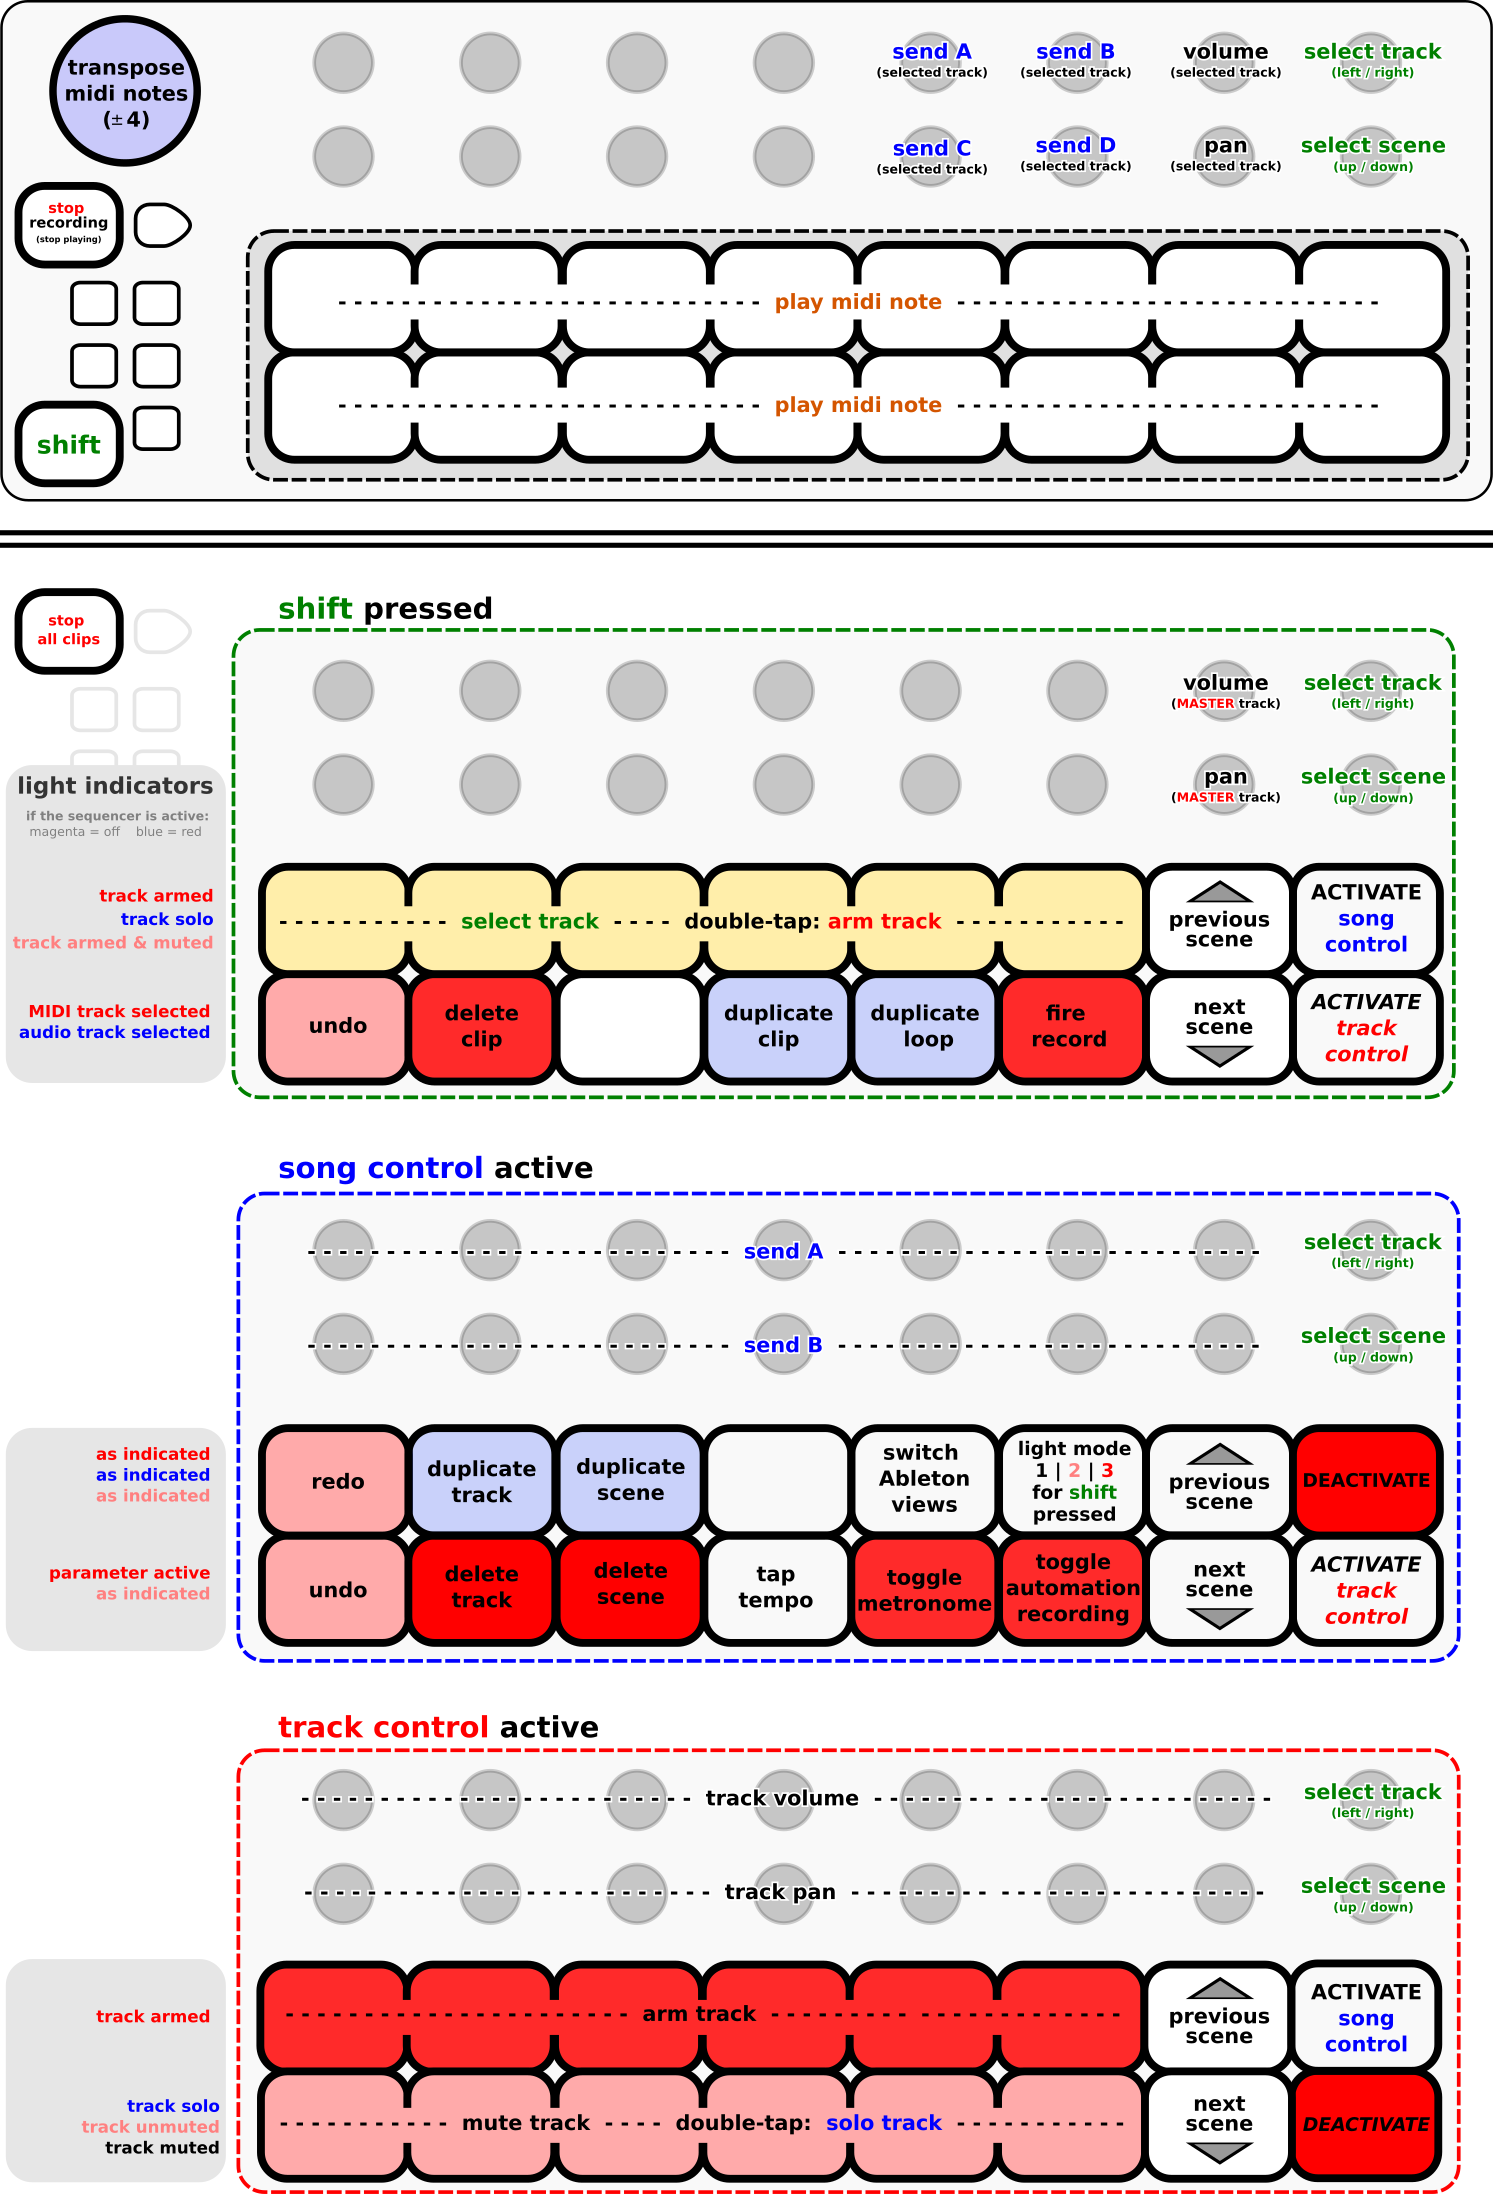
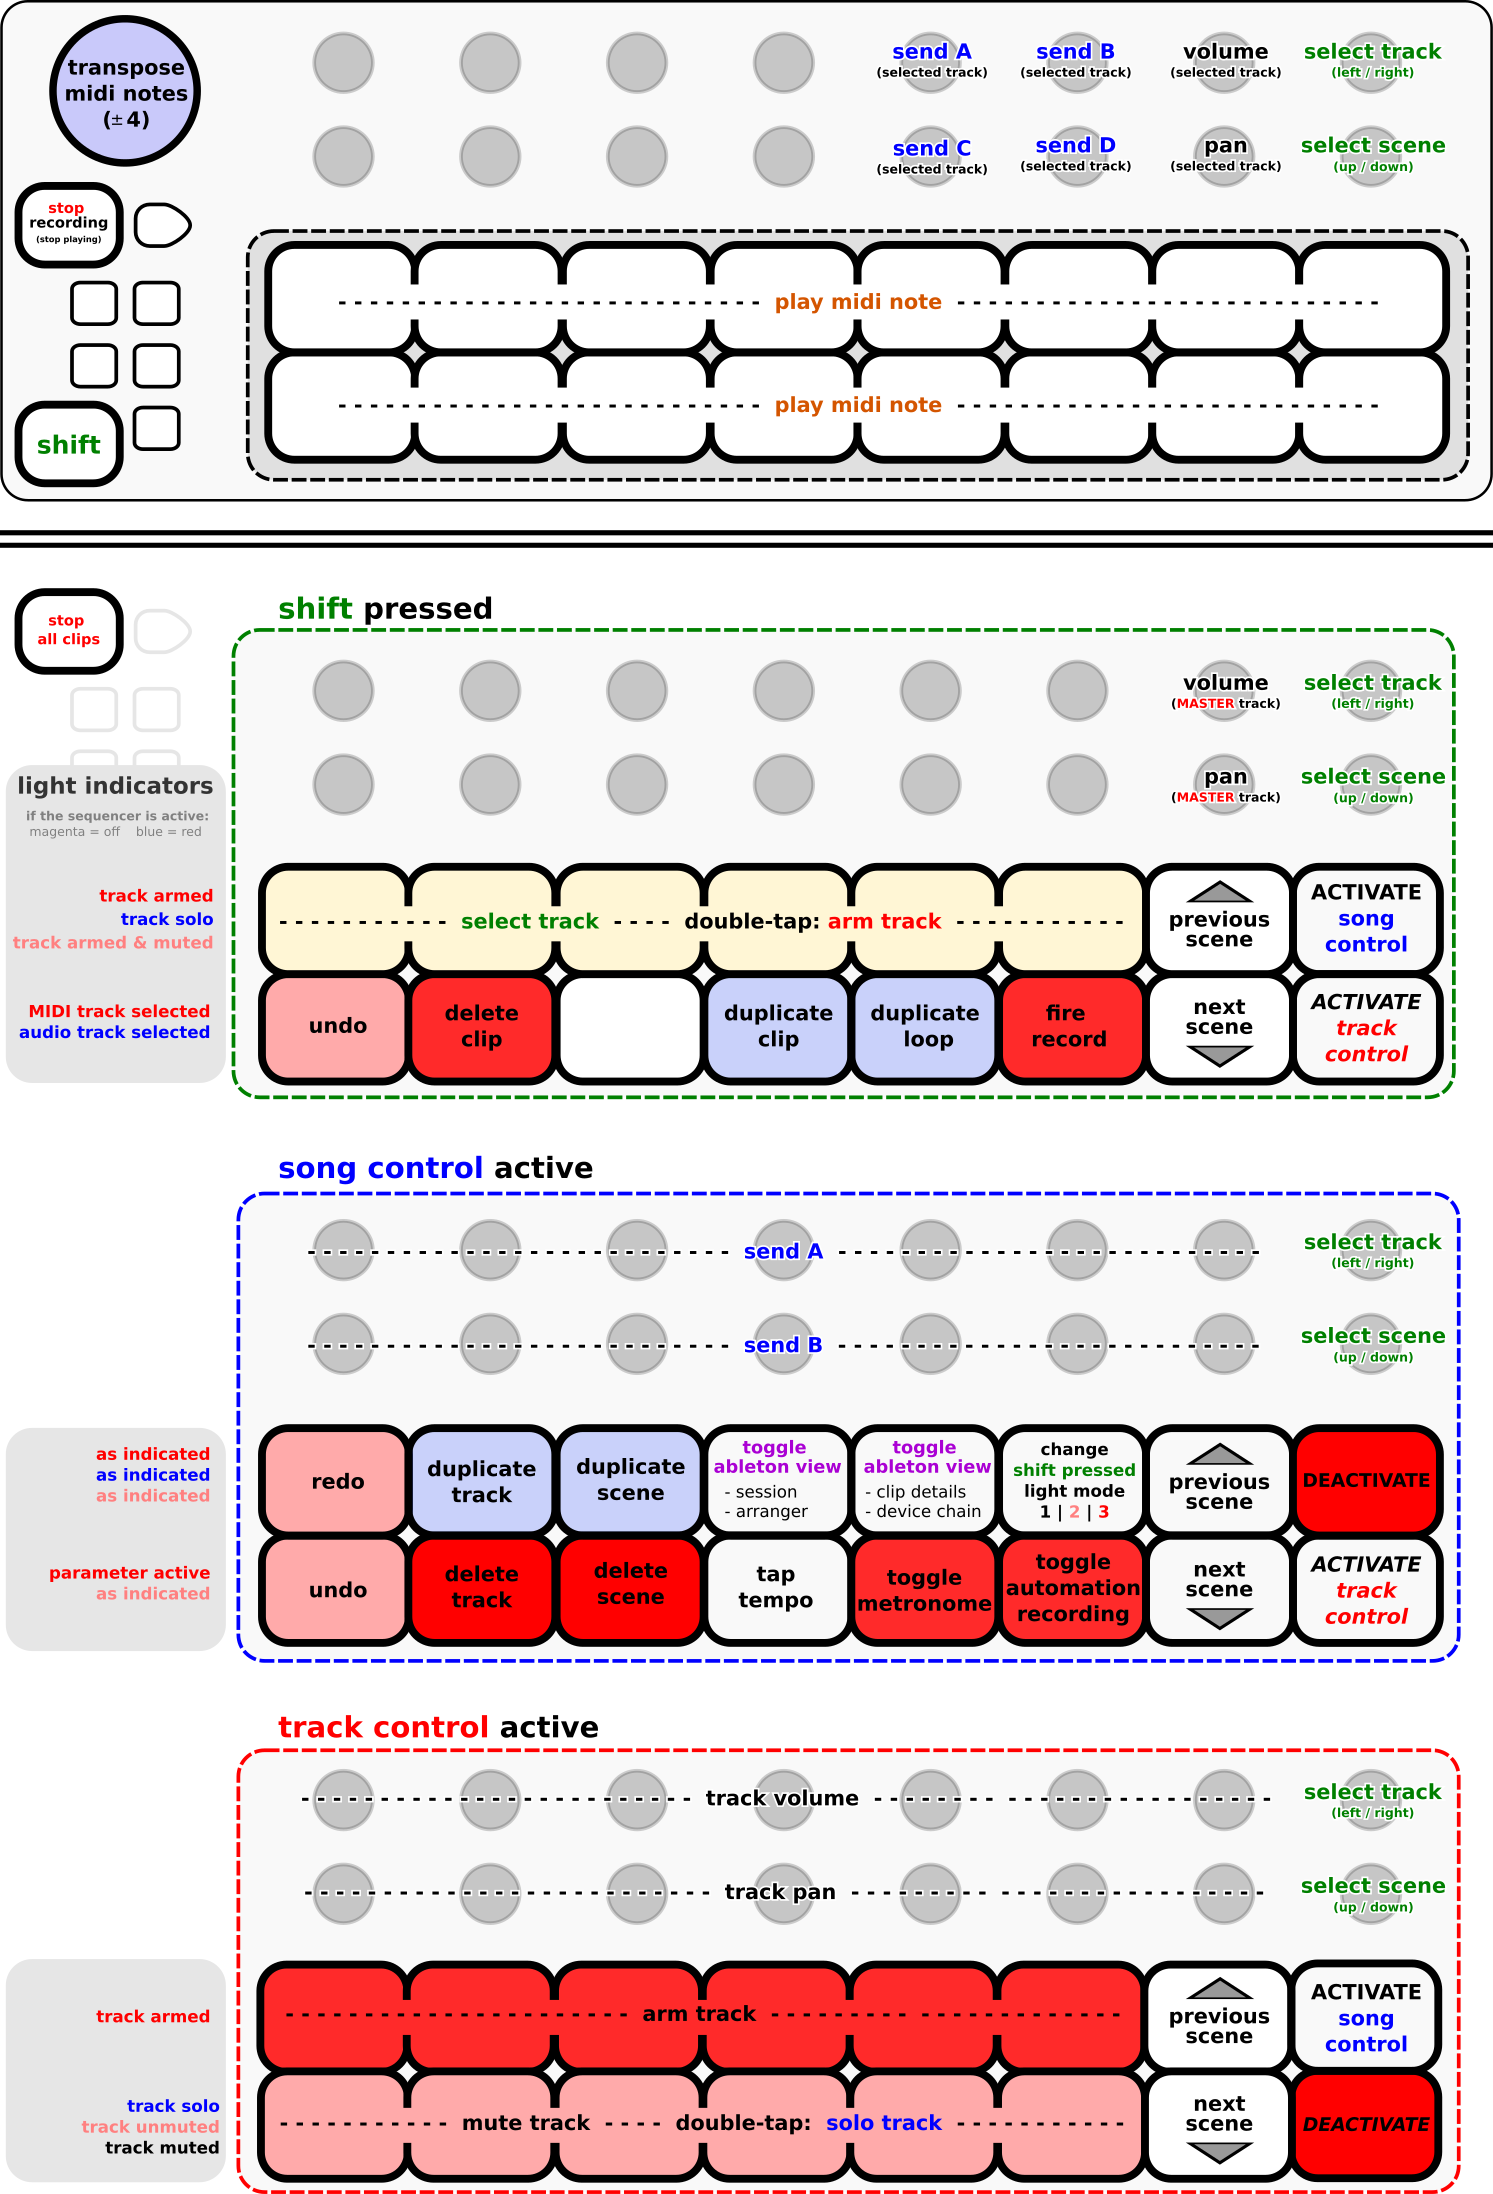
add ableton view buttons & update assignments image - one for session / arangement - one for clip details / device chain

diff --git a/QControlComponent.py b/QControlComponent.py
@@ -2,8 +2,7 @@ from BaseComponent import BaseComponent
 import time
 from itertools import cycle
 
-#VIEWS = (u'Browser', u'Arranger', u'Session', u'Detail', u'Detail/Clip', u'Detail/DeviceChain')
-VIEWS = (u'Detail/Clip', u'Detail/DeviceChain')
+VIEWS = (u'Browser', u'Arranger', u'Session', u'Detail', u'Detail/Clip', u'Detail/DeviceChain')
 
 
 class QControlComponent(BaseComponent):
@@ -24,7 +23,8 @@ class QControlComponent(BaseComponent):
 
         self._sequencer_running = False
 
-        self.viewcycle = cycle(VIEWS)
+        self._detail_cycle = cycle((u'Detail/Clip', u'Detail/DeviceChain'))
+        self._view_cycle = cycle((u'Arranger', u'Session'))
 
         self.selected_track = None
         self.selected_track_index = 0
@@ -327,6 +327,8 @@ class QControlComponent(BaseComponent):
         if value > 0:
             if self._shift_fixed:
                 self._arm_track(3)
+            elif self._control_layer:
+                self._change_detail_view(next(self._view_cycle))
             elif self._shift_pressed:
                 self._select_track(3)
         else:
@@ -337,15 +339,14 @@ class QControlComponent(BaseComponent):
             if self._shift_fixed:
                 self._arm_track(4)
             elif self._control_layer:
-                self.focus_view(next(self.viewcycle))
+                self._change_detail_view(next(self._detail_cycle))
             elif self._shift_pressed:
                 self._select_track(4)
         else:
             self._update_lights()
 
 
-    def focus_view(self, view):
-
+    def _change_detail_view(self, view):
         assert view in VIEWS
         app_view = self._parent.application().view
         if view == u'Detail/DeviceChain' or u'Detail/Clip':
